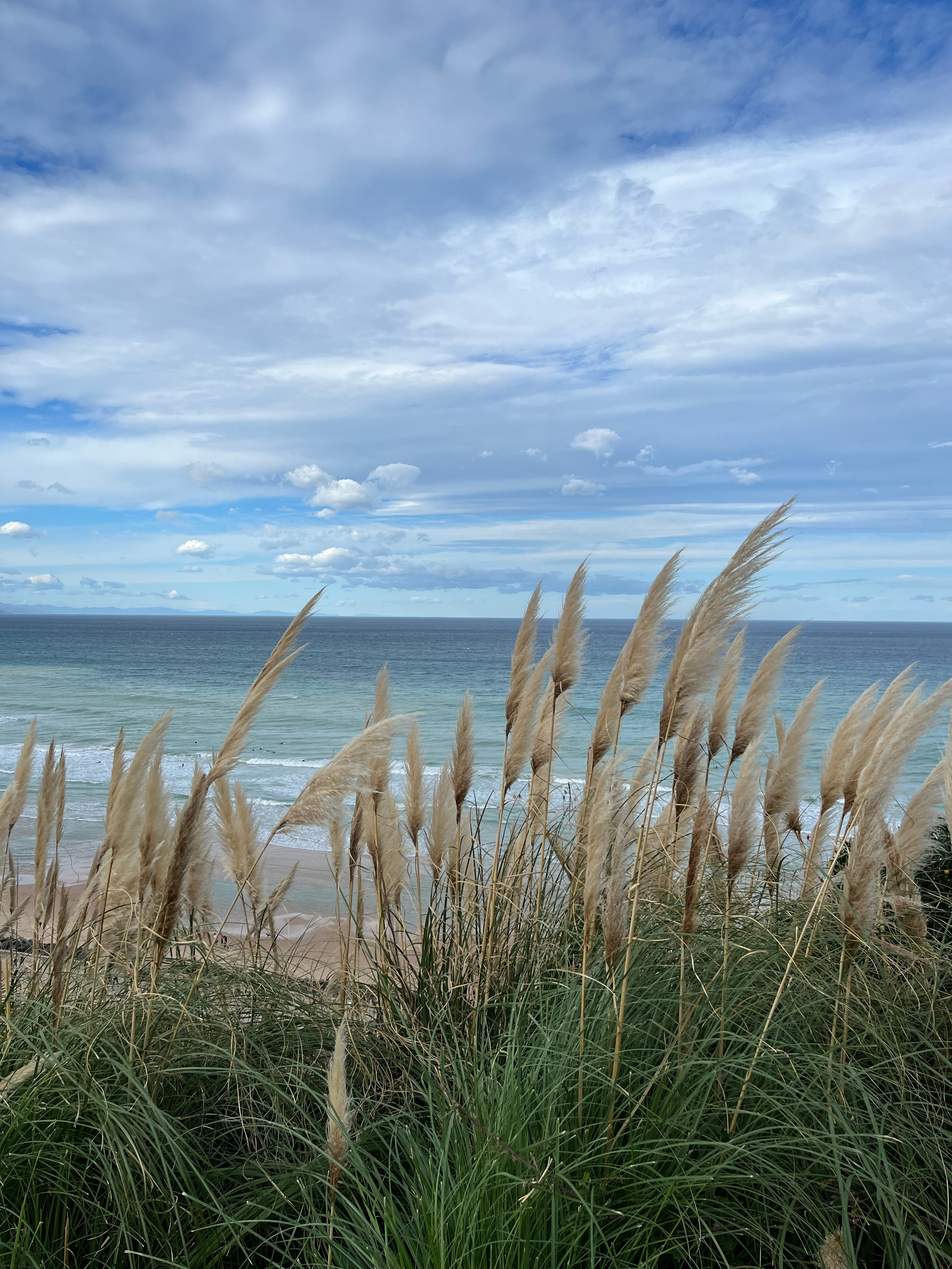
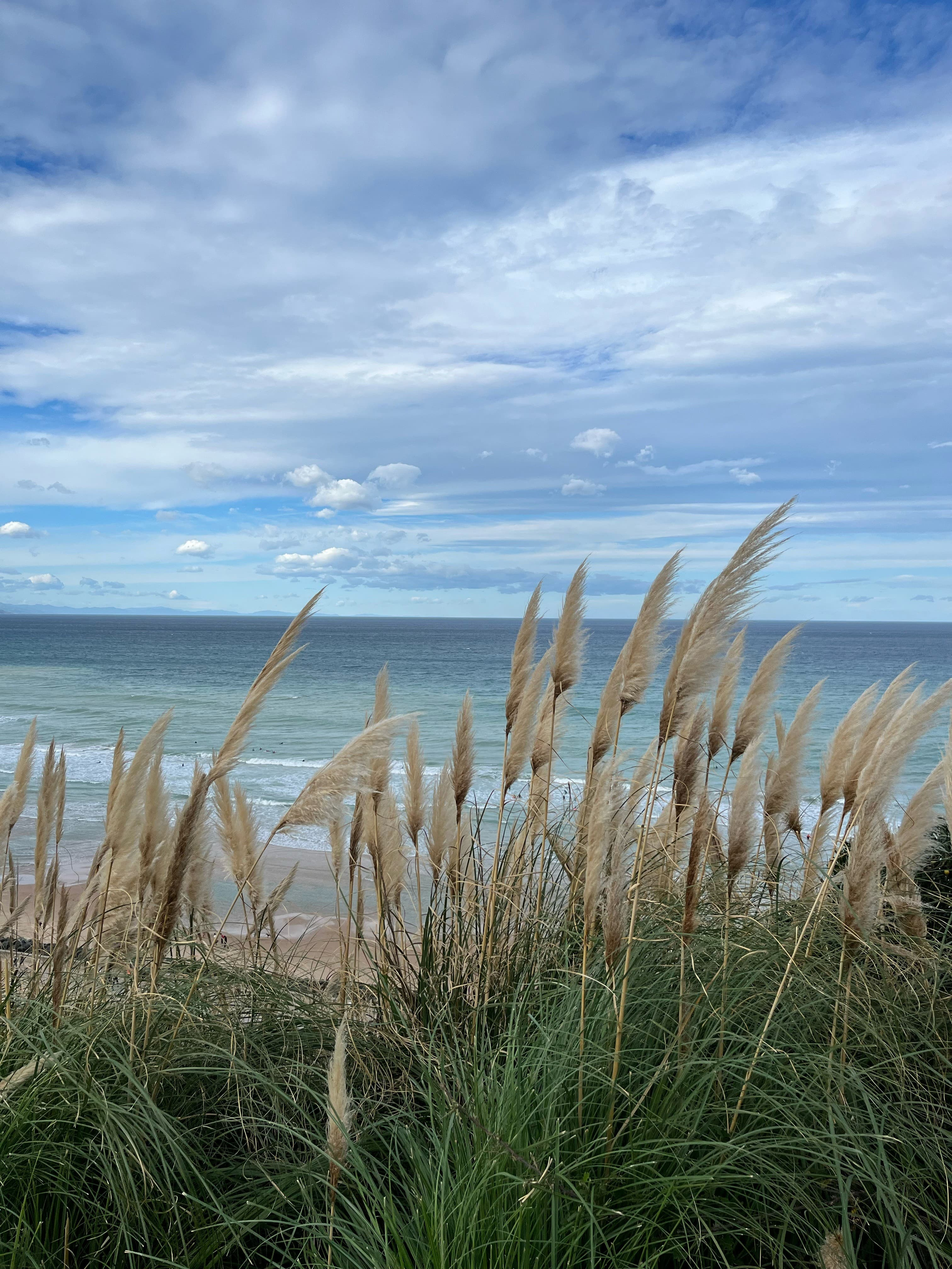
optimize image size

diff --git a/index.html b/index.html
@@ -14,14 +14,14 @@
     <meta property="og:url" content="https://www.africansurfer.com/">
     <meta property="og:title" content="Premium Surf Experiences – Europe & North Africa">
     <meta property="og:description" content="Premium, small-group surf guiding for experienced surfers in France, Portugal, and Morocco. Forecast-driven trips focused on wave quality.">
-    <meta property="og:image" content="https://www.africansurfer.com/img/hero.JPEG">
+    <meta property="og:image" content="https://www.africansurfer.com/img/hero.jpg">
 
     <!-- Twitter -->
     <meta property="twitter:card" content="summary_large_image">
     <meta property="twitter:url" content="https://www.africansurfer.com/">
     <meta property="twitter:title" content="Premium Surf Experiences – Europe & North Africa">
     <meta property="twitter:description" content="Premium, small-group surf guiding for experienced surfers in France, Portugal, and Morocco. Forecast-driven trips focused on wave quality.">
-    <meta property="twitter:image" content="https://www.africansurfer.com/img/hero.JPEG">
+    <meta property="twitter:image" content="https://www.africansurfer.com/img/hero.jpg">
 
     <link rel="canonical" href="https://www.africansurfer.com/">
     <link rel="stylesheet" href="css/style.css">
@@ -39,11 +39,11 @@
 
     <!-- Hero Section -->
     <section class="hero">
-        <div class="hero-image" style="background-image: url('img/hero.JPEG');">
+        <div class="hero-image" style="background-image: url('img/hero.jpg');">
             <div class="hero-content">
-                <h1>Be in the right place when it's on.</h1>
-                <p class="hero-subheading">Four fixed-date surf trips across Europe and North Africa, built entirely around swell timing and positioning.</p>
-                <p class="hero-authority">20+ years reading forecasts and positioning surfers across France, Portugal, and Morocco.</p>
+                <h1>Forecast-Driven Surf Guiding for Experienced Surfers.</h1>
+                <p class="hero-subheading">Small-group surf weeks in Europe & Morocco, built entirely around swell timing, positioning, and wave quality.</p>
+                <p class="hero-authority">Not a camp. Not a retreat. Just real waves and smart decisions.</p>
                 <a href="#" class="cta-button request-call-btn">Request a 15-minute call</a>
             </div>
         </div>
@@ -61,7 +61,7 @@
     </section>
 
     <!-- Image Divider 1: Coastal Grass -->
-    <div class="image-divider" style="background-image: url('img/IMG_4786.JPEG');">
+    <div class="image-divider" style="background-image: url('img/banner.jpg');">
 
     <!-- Approach Section -->
     <section class="approach-section">
@@ -97,7 +97,7 @@
                 <div class="slider">
                     <div class="slide" style="background-image: url('img/France_1.jpg');"></div>
                     <div class="slide" style="background-image: url('img/France_2.jpg');"></div>
-                    <div class="slide" style="background-image: url('img/France_3.JPEG');"></div>
+                    <div class="slide" style="background-image: url('img/France_3.jpg');"></div>
                 </div>
                 <div class="experience-content">
                     <div class="experience-header">
@@ -125,9 +125,9 @@
             
             <div class="experience">
                 <div class="slider">
-                    <div class="slide" style="background-image: url('img/Portugal_1.JPEG');"></div>
-                    <div class="slide" style="background-image: url('img/Portugal_2.JPEG');"></div>
-                    <div class="slide" style="background-image: url('img/Portugal_3.JPEG');"></div>
+                    <div class="slide" style="background-image: url('img/Portugal_1.jpg');"></div>
+                    <div class="slide" style="background-image: url('img/Portugal_2.jpg');"></div>
+                    <div class="slide" style="background-image: url('img/Portugal_3.jpg');"></div>
                 </div>
                 <div class="experience-content">
                     <div class="experience-header">
@@ -155,9 +155,9 @@
             
             <div class="experience">
                 <div class="slider">
-                    <div class="slide" style="background-image: url('img/Morocco_december_1.JPEG');"></div>
-                    <div class="slide" style="background-image: url('img/Morocco_december_2.JPEG');"></div>
-                    <div class="slide" style="background-image: url('img/Morocco_december_3.JPEG');"></div>
+                    <div class="slide" style="background-image: url('img/Morocco_december_1.jpg');"></div>
+                    <div class="slide" style="background-image: url('img/Morocco_december_2.jpg');"></div>
+                    <div class="slide" style="background-image: url('img/Morocco_december_3.jpg');"></div>
                 </div>
                 <div class="experience-content">
                     <div class="experience-header">
@@ -185,9 +185,9 @@
             
             <div class="experience">
                 <div class="slider">
-                    <div class="slide" style="background-image: url('img/Morocco_january_1.JPEG');"></div>
-                    <div class="slide" style="background-image: url('img/Morocco_january_2.JPEG');"></div>
-                    <div class="slide" style="background-image: url('img/Morocco_january_3.JPEG');"></div>
+                    <div class="slide" style="background-image: url('img/Morocco_january_1.jpg');"></div>
+                    <div class="slide" style="background-image: url('img/Morocco_january_2.jpg');"></div>
+                    <div class="slide" style="background-image: url('img/Morocco_january_3.jpg');"></div>
                 </div>
                 <div class="experience-content">
                     <div class="experience-header">
@@ -254,13 +254,14 @@
             <div class="section-title">About the Guide</div>
             <div class="about-grid">
                 <div class="about-image">
-                    <img src="img/Guid_Profile.JPEG" alt="Adil Didi, the guide for African Surfer" class="guide-profile-img">
+                    <img src="img/Guid_Profile.jpg" alt="Adil Didi, the guide for African Surfer" class="guide-profile-img">
                 </div>
                 <div class="about-content">
                     <h3>Adil (Didi)</h3>
-                    <p>I've surfed over 20 countries and all 7 seas over the last 3 decades. In fall and winter based between Europe and Morocco, I spend most of my time reading forecasts, positioning around swells, and guiding small groups to waves that matter.</p>
-                    <p>My background in movement, longevity and recovery influences how we pace the week—so you surf well when it matters. We move with intention, rest when it makes sense, and prioritize quality over volume.</p>
-                    <p>I personally guide every week. This is not scaled or outsourced. When you book, you're surfing with me.</p>
+                    <p>I’ve spent over 20 years surfing and navigating Europe and Morocco’s most reliable swell windows.</p>
+                    <p>I guide each trip personally — reading forecasts, choosing locations, and adjusting plans daily to put small groups in the right place when conditions align.</p>
+                    <p>This isn’t a scaled operation. If you book, you’re surfing with me — not a rotating guide or local hire.</p>
+                    <p>The goal is simple: fewer people, better waves, and trips that actually deliver.</p>
                 </div>
             </div>
         </div>
@@ -292,7 +293,7 @@
     </section>
 
     <!-- Image Divider 3: Morocco Lighthouse -->
-    <div class="image-divider" style="background-image: url('img/2E9606E4-7000-4136-B590-5D20B4EDDBB5.JPEG');">
+    <div class="image-divider" style="background-image: url('img/2E9606E4-7000-4136-B590-5D20B4EDDBB5.jpg');">
 
     <!-- Next Step Section -->
     <section class="next-step-section" id="next-step">
@@ -362,7 +363,7 @@
       "description": "Premium, small-group surf guiding for experienced surfers in France, Portugal, and Morocco. Forecast-driven trips focused on wave quality.",
       "url": "https://www.africansurfer.com/",
       "logo": "https://www.africansurfer.com/img/logo.svg",
-      "image": "https://www.africansurfer.com/img/hero.JPEG",
+      "image": "https://www.africansurfer.com/img/hero.jpg",
       "contactPoint": {
         "@type": "ContactPoint",
         "telephone": "+4917663431659",
@@ -391,7 +392,7 @@
               "@type": "Product",
               "name": "October – Portugal",
               "description": "First proper autumn swells hitting the Portuguese coast. We position between Peniche, Ericeira, and the southwest depending on size and conditions.",
-              "image": "https://www.africansurfer.com/img/Portugal_1.JPEG"
+              "image": "https://www.africansurfer.com/img/Portugal_1.jpg"
             }
           },
           {
@@ -400,7 +401,7 @@
               "@type": "Product",
               "name": "December – Morocco",
               "description": "North Atlantic winter swells wrapping into Morocco's Atlantic coast. Powerful, uncrowded lineups. We base near Taghazout but stay mobile—points, reefs, beachbreaks—matching ability and conditions daily.",
-              "image": "https://www.africansurfer.com/img/Morocco_december_1.JPEG"
+              "image": "https://www.africansurfer.com/img/Morocco_december_1.jpg"
             }
           },
           {
@@ -409,7 +410,7 @@
               "@type": "Product",
               "name": "January – Morocco",
               "description": "Peak swell season. Larger, more powerful waves with increased consistency. Same region, same approach—but this week is for surfers comfortable in overhead, fast-moving conditions.",
-              "image": "https://www.africansurfer.com/img/Morocco_january_1.JPEG"
+              "image": "https://www.africansurfer.com/img/Morocco_january_1.jpg"
             }
           }
         ]
